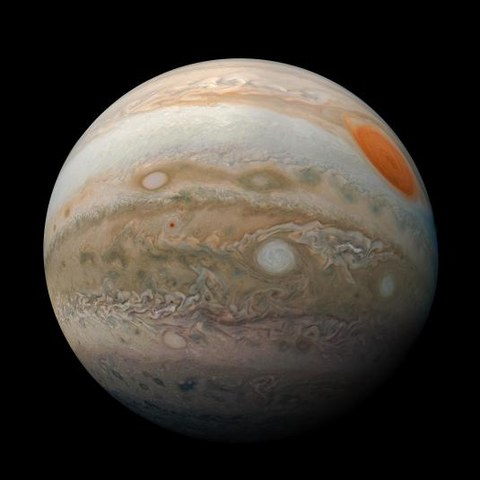
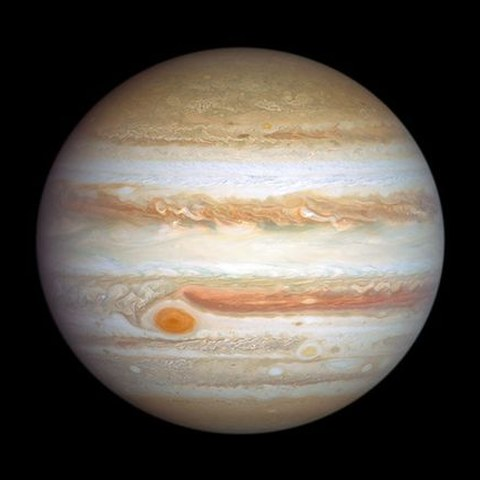
Use the pictures people recognise for Venus, Jupiter and Saturn
Three of the seven were technically correct and visually unfamiliar, which is
the wrong trade for a thumbnail whose whole job is "that is the planet I am
pointing at".

* **Venus** was Mariner 10's *ultraviolet* frame: blue and white, streaked,
  and nothing like the planet. Now Mariner 10 in natural colour (PIA23791) --
  the creamy globe Venus is always pictured as.
* **Jupiter** was a Juno closeup: a partial disc with the Great Red Spot in an
  odd corner. Now Hubble's OPAL portrait of 5 January 2024, a full banded
  globe with the spot where anyone expects it. The source is a two-panel
  before/after comparison, so the left globe is cropped out of it.
* **Saturn** was a grainy Voyager frame. Now Hubble's OPAL portrait of 22
  October 2023. Its outlying moons had to be trimmed before the square crop,
  since they are bright points far from the planet and would otherwise have
  stretched the bounding box across the whole frame.

Mercury stays as it is: it really is that grey. Mars, Uranus and Neptune were
already right.

Credits updated in the component, THIRD_PARTY_NOTICES.md and the README, since
the attributions changed with the sources. Still all NASA, still public
domain, now 172 KB for the set.

diff --git a/web/src/components/PlanetImage.tsx b/web/src/components/PlanetImage.tsx
@@ -21,13 +21,22 @@
  * Uranus, which are at least the same object you will be looking at.
  */
 
-/** Credit per image, shown under it. Public domain, credit owed regardless. */
+/**
+ * Credit per image, shown under it. Public domain, credit owed regardless.
+ *
+ * Several are second choices. The first pass used Juno's Jupiter, whose
+ * closeup puts the Great Red Spot in an unfamiliar place on a partial disc,
+ * a grainy Voyager Saturn, and Mariner 10's ultraviolet Venus, which is blue
+ * and white and looks nothing like the planet. These are the views anyone
+ * would recognise: Hubble's OPAL portraits of Jupiter and Saturn, and Mariner
+ * 10 in natural colour for Venus.
+ */
 const CREDITS: Record<string, string> = {
   mercury: "NASA / Johns Hopkins APL / Carnegie Institution — MESSENGER",
   venus: "NASA / JPL-Caltech — Mariner 10",
   mars: "NASA / JPL-Caltech / MSSS — Mars Global Surveyor",
-  jupiter: "NASA / JPL-Caltech / SwRI / MSSS — Juno",
-  saturn: "NASA / JPL-Caltech — Voyager",
+  jupiter: "NASA / ESA / STScI — Hubble OPAL",
+  saturn: "NASA / ESA / STScI — Hubble OPAL",
   uranus: "NASA / JPL-Caltech — Voyager 2",
   neptune: "NASA / JPL-Caltech — Voyager 2",
 };

diff --git a/THIRD_PARTY_NOTICES.md b/THIRD_PARTY_NOTICES.md
@@ -48,20 +48,24 @@ use or large-scale redistribution.
   | File | Credit |
   |---|---|
   | `mercury.jpg` | NASA / Johns Hopkins APL / Carnegie Institution — MESSENGER (PIA15162) |
-  | `venus.jpg` | NASA / JPL-Caltech — Mariner 10 |
+  | `venus.jpg` | NASA / JPL-Caltech — Mariner 10, natural colour (PIA23791) |
   | `mars.jpg` | NASA / JPL-Caltech / MSSS — Mars Global Surveyor (PIA04304) |
-  | `jupiter.jpg` | NASA / JPL-Caltech / SwRI / MSSS — Juno (PIA22946) |
-  | `saturn.jpg` | NASA / JPL-Caltech — Voyager |
+  | `jupiter.jpg` | NASA / ESA / STScI — Hubble OPAL, 5 January 2024 |
+  | `saturn.jpg` | NASA / ESA / STScI — Hubble OPAL, 22 October 2023 |
   | `uranus.jpg` | NASA / JPL-Caltech — Voyager 2 (PIA18182) |
   | `neptune.jpg` | NASA / JPL-Caltech — Voyager 2 (PIA01492) |
 - **Modifications:** each was cropped square around the planet and resized to
-  480 x 480. No colour or content was altered. The crop script is in the
-  commit that added them.
-- **Why these ones.** Two obvious candidates were deliberately rejected as
-  misleading next to an observing list: Magellan's radar map of Venus's
-  surface, which no telescope has ever shown, and the JWST portrait of Uranus
-  blazing with rings. Mariner 10's cloud-top Venus and Voyager 2's plain
-  blue-green Uranus are at least the same object the observer will see.
+  480 x 480. Jupiter's source is a two-panel Hubble comparison and the left
+  globe was taken from it; Saturn's was trimmed clear of its outlying moons so
+  they would not drag the crop. No colour or content was altered. The crop
+  script is in the commits that added and revised them.
+- **Why these ones.** Two candidates were rejected as misleading next to an
+  observing list: Magellan's radar map of Venus's surface, which no telescope
+  has ever shown, and the JWST portrait of Uranus blazing with rings. Three
+  more were replaced for being unrecognisable rather than wrong — Juno's
+  Jupiter, which is a partial disc with the Great Red Spot in an odd place; a
+  grainy Voyager Saturn; and Mariner 10's *ultraviolet* Venus, which is blue
+  and white. The set is now the view each planet is usually pictured as.
 - **Bundled rather than hotlinked** because they are static, small, and a
   runtime dependency on a third-party CDN for unchanging bytes is a thing that
   breaks quietly later.

diff --git a/README.md b/README.md
@@ -440,10 +440,14 @@ change, so a runtime dependency on somebody else's CDN buys nothing and breaks
 quietly later. All are public domain; credits appear under each image, in
 `THIRD_PARTY_NOTICES.md`, and in the component.
 
-Two obvious candidates were rejected as misleading beside an observing list:
-Magellan's radar map of Venus's surface, which no telescope has ever shown, and
-the JWST portrait of Uranus blazing with rings. The picked ones are Mariner
-10's cloud-top Venus and Voyager 2's plain blue-green Uranus. Even so, a
+Two candidates were rejected as misleading beside an observing list: Magellan's
+radar map of Venus's surface, which no telescope has ever shown, and the JWST
+portrait of Uranus blazing with rings. Three more were replaced for being
+*unrecognisable* rather than wrong — Juno's Jupiter is a partial disc with the
+Great Red Spot in an odd corner, the Voyager Saturn was grainy, and Mariner
+10's ultraviolet Venus is blue and white. The set is now the view each planet
+is usually pictured as: Hubble's OPAL portraits for Jupiter and Saturn, natural
+colour for Venus, Voyager 2 for Uranus and Neptune. Even so, a
 spacecraft close-up is not the eyepiece — Jupiter's Great Red Spot is a faint
 notch, and Uranus and Neptune are featureless dots — which is the same caveat
 the survey cutouts carry for deep-sky objects. Tonight's *actual* numbers
